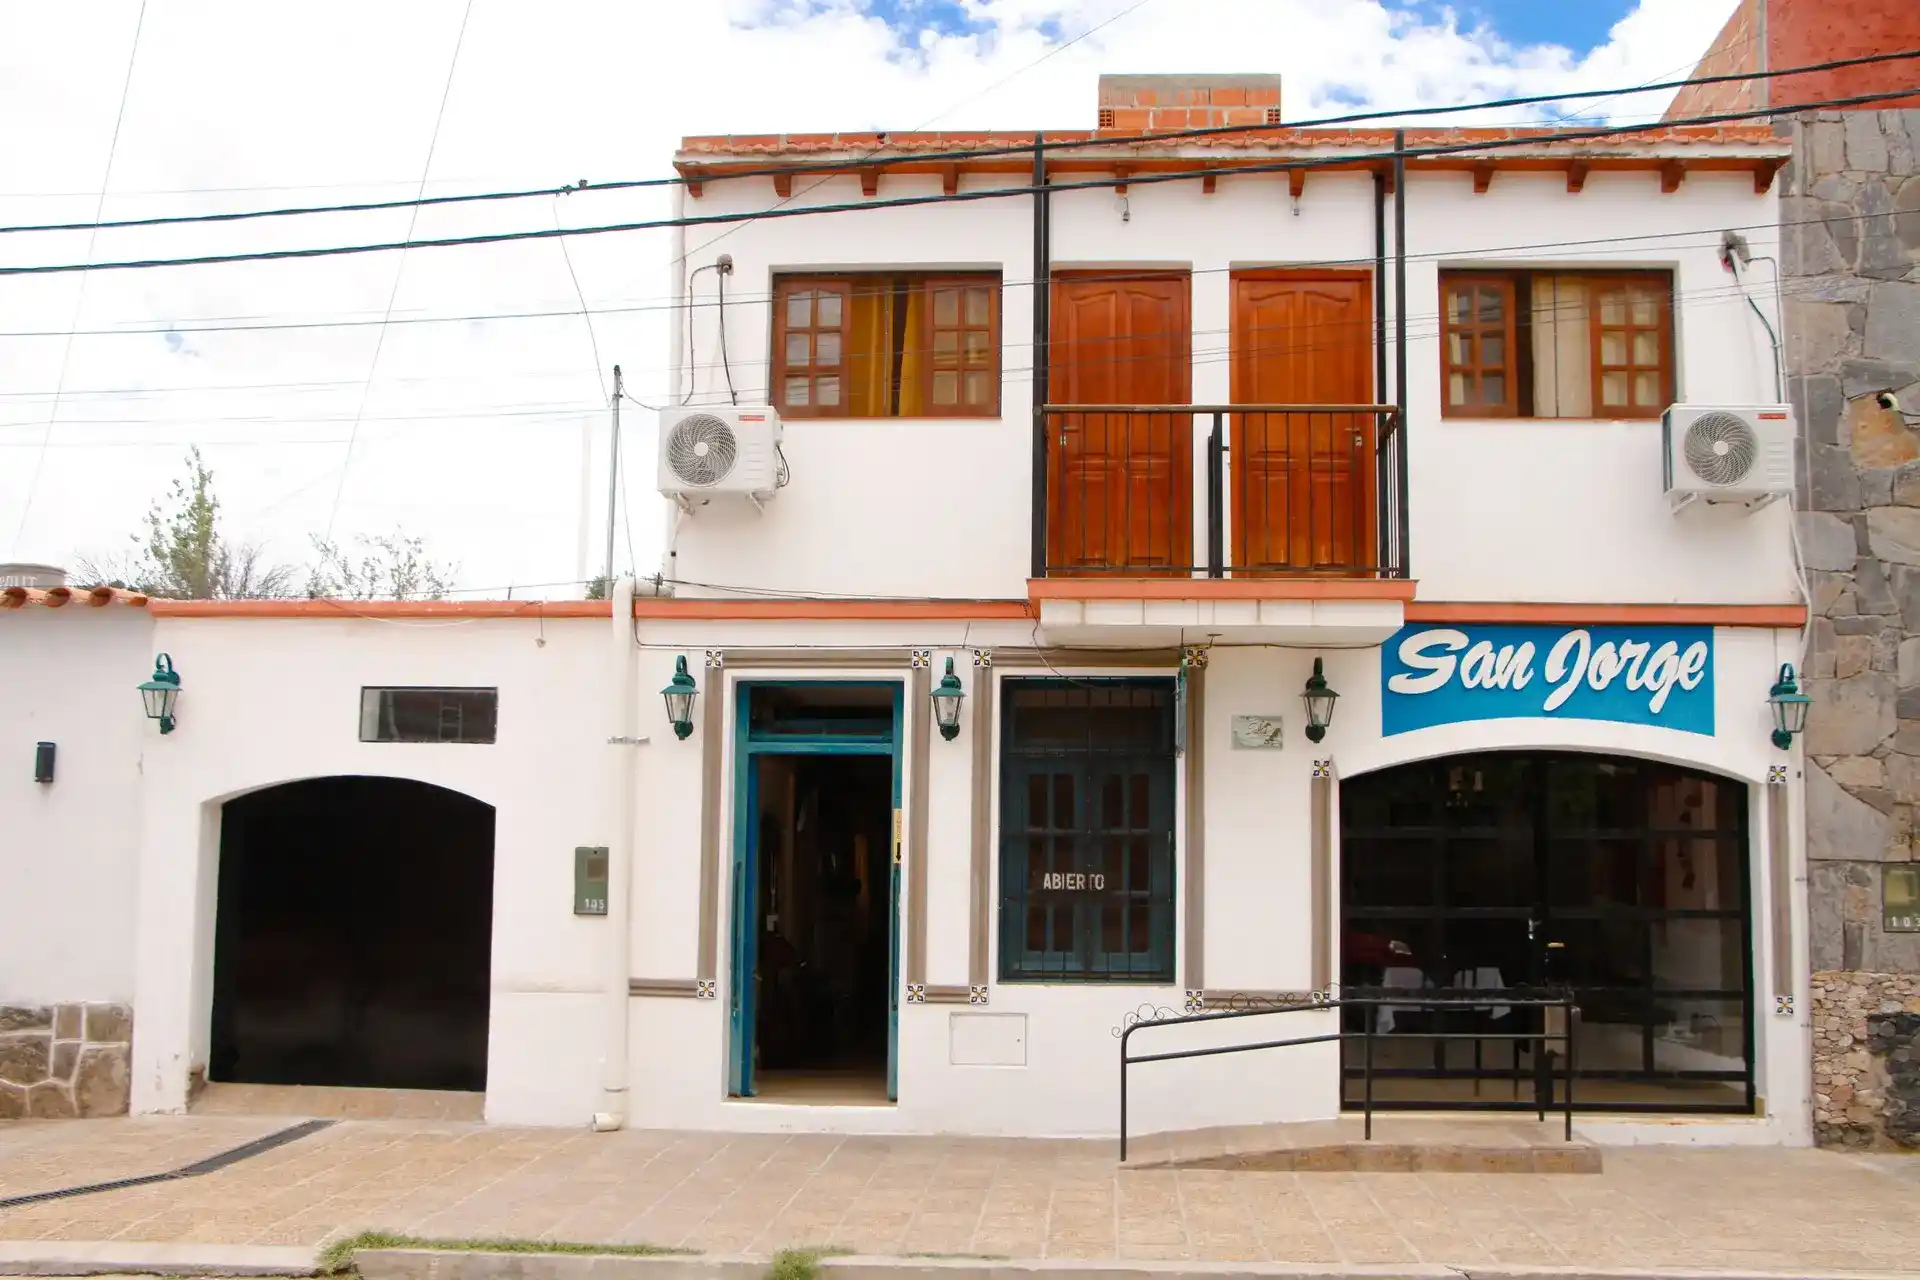
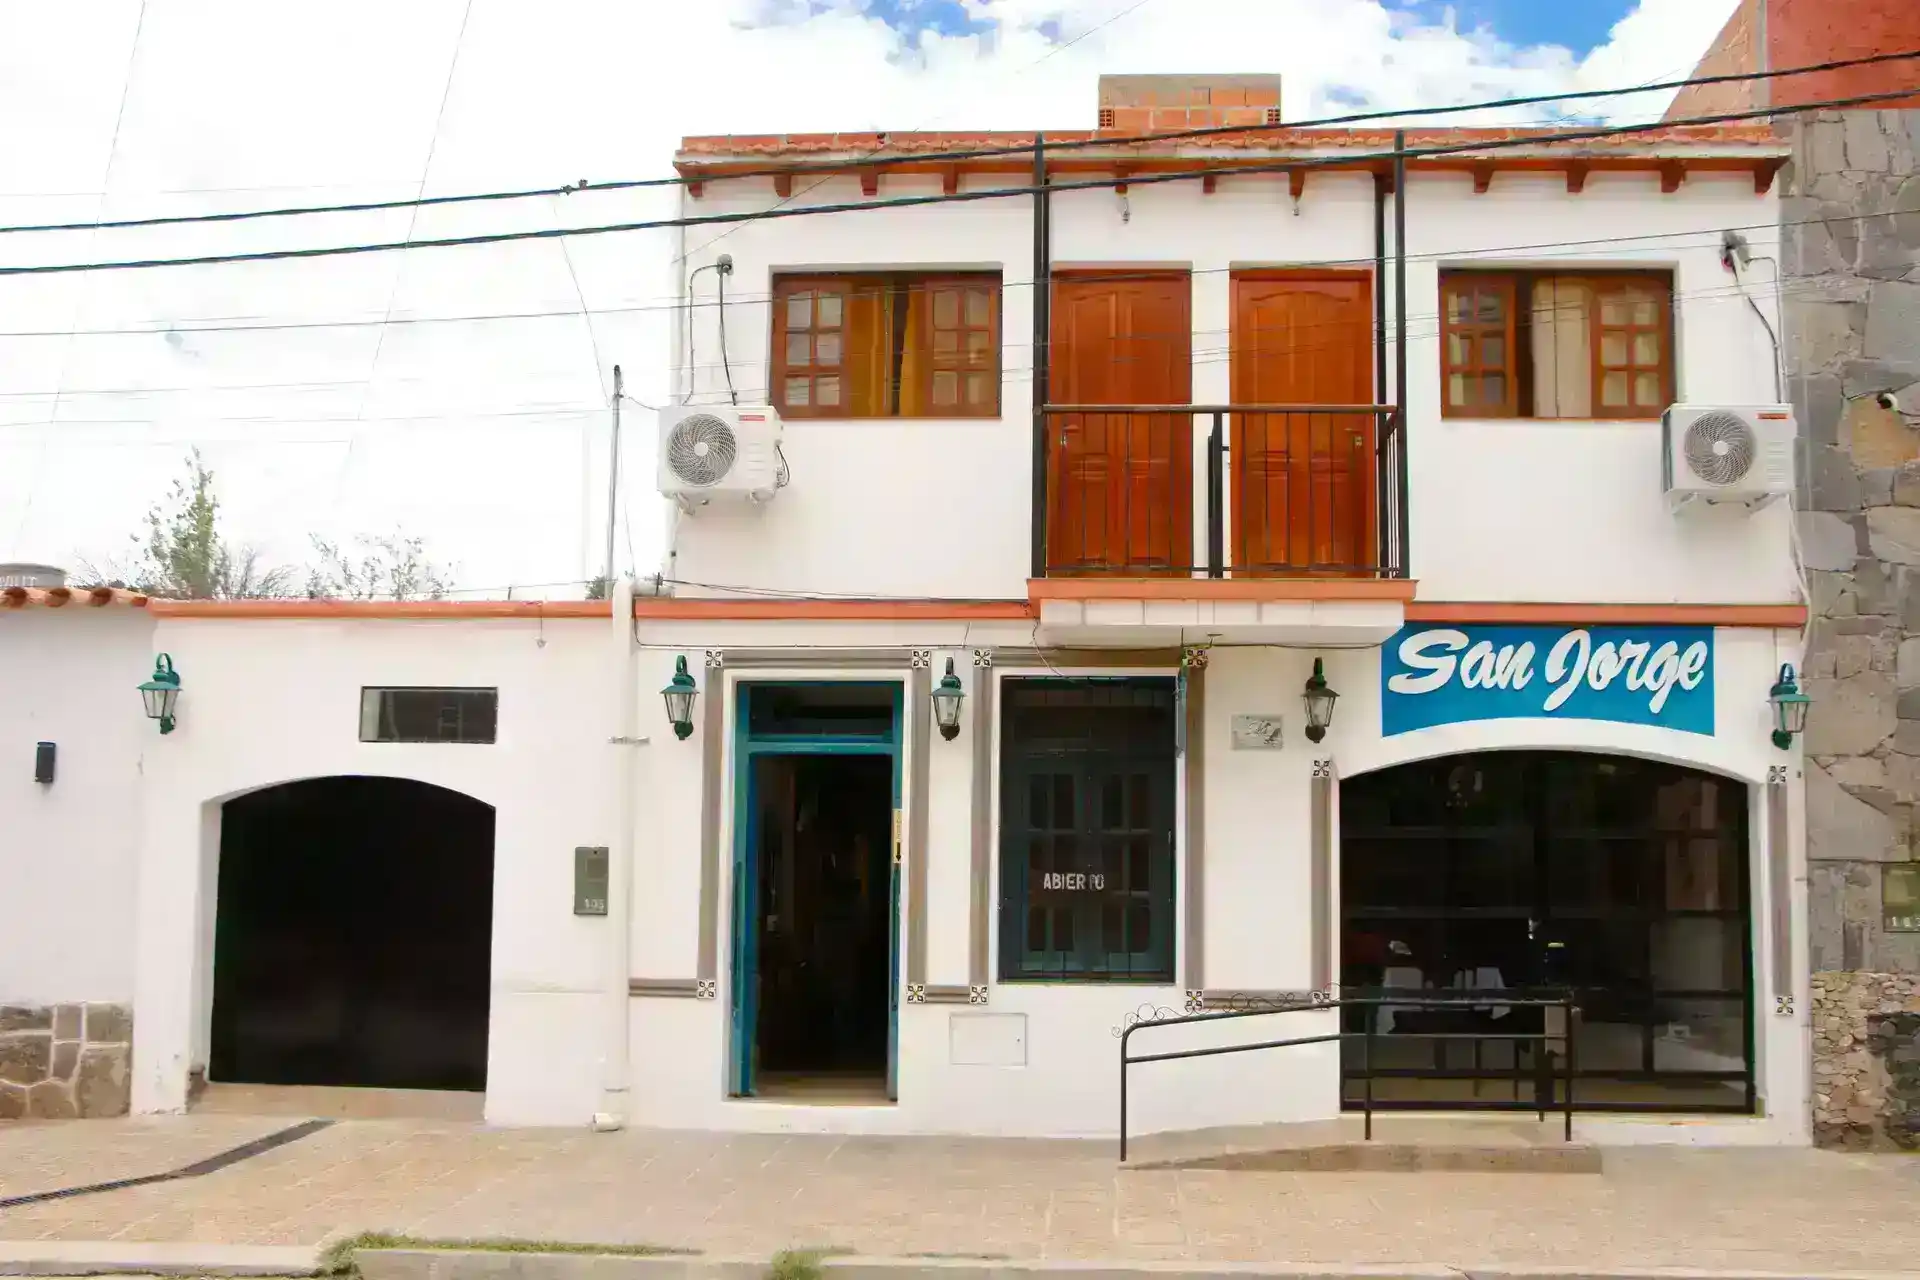
Comprimi primera imagen de carrusel en index.html y le agregue atributo loading con valor lazy

diff --git a/CSS/estilos.min.css b/CSS/estilos.min.css
@@ -1,1 +1,1 @@
-@import url('https://fonts.googleapis.com/css2?family=Nunito:ital,wght@0,200..1000;1,200..1000&display=swap');body{font-family:'Nunito',sans-serif;min-height:100vh;display:flex;flex-direction:column}header{width:100%;z-index:100;position:fixed;top:0;left:0}main{margin-top:96.75px;flex-grow:1;background:#f1e8d6}h1,h2,h3,h4{color:#8a9017;color:#9f870b;color:#734B2E}.lead{font-size:1rem;font-weight:400}.iconFacebook{color:#3d61f2}.iconFacebook:hover{color:rgb(27,27,189)}.iconInstagram{color:rgb(210,48,48)}.iconInstagram:hover{color:red}.iconWhatsApp{color:green}.iconWhatsApp:hover{color:rgb(3,96,3);font-weight:400}.btnWppFixed{position:fixed;right:20px;bottom:20px;font-size:60px}@media all and (min-width:768px){.btnWppFixed{font-size:80px}}@media all and (min-width:992px){main{margin-top:80.75px}}@media all and (min-width:1200px){main{margin-top:104px}.lead{font-size:1.25rem;font-weight:400}}
+@import url('https://cdn.jsdelivr.net/npm/bootstrap@5.3.2/dist/css/bootstrap.min.css');@import url('https://cdnjs.cloudflare.com/ajax/libs/font-awesome/6.5.1/css/all.min.css');@import url('https://fonts.googleapis.com/css2?family=Nunito:ital,wght@0,200..1000;1,200..1000&display=swap');body{font-family:'Nunito',sans-serif;min-height:100vh;display:flex;flex-direction:column}header{width:100%;z-index:100;position:fixed;top:0;left:0}main{margin-top:96.75px;flex-grow:1;background:#f1e8d6}h1,h2,h3,h4{color:#8a9017;color:#9f870b;color:#734B2E}.lead{font-size:1rem;font-weight:400}.iconFacebook{color:#3d61f2}.iconFacebook:hover{color:rgb(27,27,189)}.iconInstagram{color:rgb(210,48,48)}.iconInstagram:hover{color:red}.iconWhatsApp{color:green}.iconWhatsApp:hover{color:rgb(3,96,3);font-weight:400}.btnWppFixed{position:fixed;right:20px;bottom:20px;font-size:60px}@media all and (min-width:768px){.btnWppFixed{font-size:80px}}@media all and (min-width:992px){main{margin-top:80.75px}}@media all and (min-width:1200px){main{margin-top:104px}.lead{font-size:1.25rem;font-weight:400}}

diff --git a/index.html b/index.html
@@ -32,20 +32,7 @@
       property="og:url"
       content="https://hostalsanjorgecafayate.netlify.app/"
     />
-    <title>Home | Hostal San Jorge - Alojamiento en Cafayate, Salta</title>
-    <link
-      rel="stylesheet"
-      href="https://cdnjs.cloudflare.com/ajax/libs/font-awesome/6.4.2/css/all.min.css"
-      integrity="sha512-z3gLpd7yknf1YoNbCzqRKc4qyor8gaKU1qmn+CShxbuBusANI9QpRohGBreCFkKxLhei6S9CQXFEbbKuqLg0DA=="
-      crossorigin="anonymous"
-      referrerpolicy="no-referrer"
-    />   
-    <link
-      href="https://cdn.jsdelivr.net/npm/bootstrap@5.3.2/dist/css/bootstrap.min.css"
-      rel="stylesheet"
-      integrity="sha384-T3c6CoIi6uLrA9TneNEoa7RxnatzjcDSCmG1MXxSR1GAsXEV/Dwwykc2MPK8M2HN"
-      crossorigin="anonymous"
-    />
+    <title>Home | Hostal San Jorge - Alojamiento en Cafayate, Salta</title> 
     <link rel="stylesheet" href="./CSS/navbar.min.css" />
     <link rel="stylesheet" href="./CSS/footer.min.css" />
     <link rel="stylesheet" href="./CSS/estilos.min.css" />
@@ -196,6 +183,7 @@
               class="w-100 imgCarrusel"
               alt="Vista de frente del hostal"
               title="Frente del Hostal"
+              loading="lazy"
             />
           </div>
           <div class="carousel-item" data-bs-interval="3000">

diff --git a/PAGES/habitacionQuintuple.html b/PAGES/habitacionQuintuple.html
@@ -36,19 +36,6 @@
       content="https://hostalsanjorgecafayate.netlify.app/PAGES/habitacionQuintuple"
     />
     <title>Habitación Quíntuple | Hostal San Jorge - Alojamiento</title>
-    <link
-      rel="stylesheet"
-      href="https://cdnjs.cloudflare.com/ajax/libs/font-awesome/6.4.2/css/all.min.css"
-      integrity="sha512-z3gLpd7yknf1YoNbCzqRKc4qyor8gaKU1qmn+CShxbuBusANI9QpRohGBreCFkKxLhei6S9CQXFEbbKuqLg0DA=="
-      crossorigin="anonymous"
-      referrerpolicy="no-referrer"
-    />
-    <link
-      href="https://cdn.jsdelivr.net/npm/bootstrap@5.3.2/dist/css/bootstrap.min.css"
-      rel="stylesheet"
-      integrity="sha384-T3c6CoIi6uLrA9TneNEoa7RxnatzjcDSCmG1MXxSR1GAsXEV/Dwwykc2MPK8M2HN"
-      crossorigin="anonymous"
-    />
     <link rel="stylesheet" href="../CSS/navbar.min.css" />
     <link rel="stylesheet" href="../CSS/footer.min.css" />
     <link rel="stylesheet" href="../CSS/detalleHabitacion.min.css" />

diff --git a/PAGES/habitacionSimple.html b/PAGES/habitacionSimple.html
@@ -36,19 +36,6 @@
       content="https://hostalsanjorgecafayate.netlify.app/PAGES/habitacionSimple"
     />
     <title>Habitación Indivual | Hostal San Jorge - Alojamiento</title>
-    <link
-      rel="stylesheet"
-      href="https://cdnjs.cloudflare.com/ajax/libs/font-awesome/6.4.2/css/all.min.css"
-      integrity="sha512-z3gLpd7yknf1YoNbCzqRKc4qyor8gaKU1qmn+CShxbuBusANI9QpRohGBreCFkKxLhei6S9CQXFEbbKuqLg0DA=="
-      crossorigin="anonymous"
-      referrerpolicy="no-referrer"
-    />
-    <link
-      href="https://cdn.jsdelivr.net/npm/bootstrap@5.3.2/dist/css/bootstrap.min.css"
-      rel="stylesheet"
-      integrity="sha384-T3c6CoIi6uLrA9TneNEoa7RxnatzjcDSCmG1MXxSR1GAsXEV/Dwwykc2MPK8M2HN"
-      crossorigin="anonymous"
-    />
     <link rel="stylesheet" href="../CSS/navbar.min.css" />
     <link rel="stylesheet" href="../CSS/footer.min.css" />
     <link rel="stylesheet" href="../CSS/detalleHabitacion.min.css" />

diff --git a/PAGES/habitacionTriple.html b/PAGES/habitacionTriple.html
@@ -36,19 +36,6 @@
       content="https://hostalsanjorgecafayate.netlify.app/PAGES/habitacionTriple"
     />
     <title>Habitación Triple | Hostal San Jorge - Alojamiento</title>
-    <link
-      rel="stylesheet"
-      href="https://cdnjs.cloudflare.com/ajax/libs/font-awesome/6.4.2/css/all.min.css"
-      integrity="sha512-z3gLpd7yknf1YoNbCzqRKc4qyor8gaKU1qmn+CShxbuBusANI9QpRohGBreCFkKxLhei6S9CQXFEbbKuqLg0DA=="
-      crossorigin="anonymous"
-      referrerpolicy="no-referrer"
-    />
-    <link
-      href="https://cdn.jsdelivr.net/npm/bootstrap@5.3.2/dist/css/bootstrap.min.css"
-      rel="stylesheet"
-      integrity="sha384-T3c6CoIi6uLrA9TneNEoa7RxnatzjcDSCmG1MXxSR1GAsXEV/Dwwykc2MPK8M2HN"
-      crossorigin="anonymous"
-    />
     <link rel="stylesheet" href="../CSS/navbar.min.css" />
     <link rel="stylesheet" href="../CSS/footer.min.css" />
     <link rel="stylesheet" href="../CSS/detalleHabitacion.min.css" />

diff --git a/PAGES/habitacionDoble.html b/PAGES/habitacionDoble.html
@@ -36,19 +36,6 @@
       content="https://hostalsanjorgecafayate.netlify.app/PAGES/HabitacionDoble"
     />
     <title>Habitación Doble | Hostal San Jorge - Alojamiento</title>
-    <link
-      rel="stylesheet"
-      href="https://cdnjs.cloudflare.com/ajax/libs/font-awesome/6.4.2/css/all.min.css"
-      integrity="sha512-z3gLpd7yknf1YoNbCzqRKc4qyor8gaKU1qmn+CShxbuBusANI9QpRohGBreCFkKxLhei6S9CQXFEbbKuqLg0DA=="
-      crossorigin="anonymous"
-      referrerpolicy="no-referrer"
-    />
-    <link
-      href="https://cdn.jsdelivr.net/npm/bootstrap@5.3.2/dist/css/bootstrap.min.css"
-      rel="stylesheet"
-      integrity="sha384-T3c6CoIi6uLrA9TneNEoa7RxnatzjcDSCmG1MXxSR1GAsXEV/Dwwykc2MPK8M2HN"
-      crossorigin="anonymous"
-    />
     <link rel="stylesheet" href="../CSS/navbar.min.css" />
     <link rel="stylesheet" href="../CSS/footer.min.css" />
     <link rel="stylesheet" href="../CSS/detalleHabitacion.min.css" />

diff --git a/PAGES/preguntasFrecuentes.html b/PAGES/preguntasFrecuentes.html
@@ -36,19 +36,6 @@
       content="https://hostalsanjorgecafayate.netlify.app/PAGES/preguntasFrecuentes"
     />
     <title>Preguntas Frecuentes | Hostal San Jorge - Alojamiento</title>
-    <link
-      rel="stylesheet"
-      href="https://cdnjs.cloudflare.com/ajax/libs/font-awesome/6.4.2/css/all.min.css"
-      integrity="sha512-z3gLpd7yknf1YoNbCzqRKc4qyor8gaKU1qmn+CShxbuBusANI9QpRohGBreCFkKxLhei6S9CQXFEbbKuqLg0DA=="
-      crossorigin="anonymous"
-      referrerpolicy="no-referrer"
-    />
-    <link
-      href="https://cdn.jsdelivr.net/npm/bootstrap@5.3.2/dist/css/bootstrap.min.css"
-      rel="stylesheet"
-      integrity="sha384-T3c6CoIi6uLrA9TneNEoa7RxnatzjcDSCmG1MXxSR1GAsXEV/Dwwykc2MPK8M2HN"
-      crossorigin="anonymous"
-    />
     <link rel="stylesheet" href="../CSS/navbar.min.css" />
     <link rel="stylesheet" href="../CSS/footer.min.css" />
     <link rel="stylesheet" href="../CSS/estilos.min.css" />

diff --git a/PAGES/galeria.html b/PAGES/galeria.html
@@ -36,19 +36,6 @@
       content="https://hostalsanjorgecafayate.netlify.app/PAGES/galeria"
     />
     <title>Galería | Hostal San Jorge - Alojamiento en Cafayate, Salta</title>
-    <link
-      rel="stylesheet"
-      href="https://cdnjs.cloudflare.com/ajax/libs/font-awesome/6.4.2/css/all.min.css"
-      integrity="sha512-z3gLpd7yknf1YoNbCzqRKc4qyor8gaKU1qmn+CShxbuBusANI9QpRohGBreCFkKxLhei6S9CQXFEbbKuqLg0DA=="
-      crossorigin="anonymous"
-      referrerpolicy="no-referrer"
-    />
-    <link
-      href="https://cdn.jsdelivr.net/npm/bootstrap@5.3.2/dist/css/bootstrap.min.css"
-      rel="stylesheet"
-      integrity="sha384-T3c6CoIi6uLrA9TneNEoa7RxnatzjcDSCmG1MXxSR1GAsXEV/Dwwykc2MPK8M2HN"
-      crossorigin="anonymous"
-    />
     <link rel="stylesheet" href="../CSS/navbar.min.css" />
     <link rel="stylesheet" href="../CSS/footer.min.css" />
     <link rel="stylesheet" href="../CSS/estilos.min.css" />

diff --git a/PAGES/comoLlegar.html b/PAGES/comoLlegar.html
@@ -38,19 +38,6 @@
     <title>
       Cómo llegar | Hostal San Jorge - Alojamiento en Cafayate, Salta
     </title>
-    <link
-      rel="stylesheet"
-      href="https://cdnjs.cloudflare.com/ajax/libs/font-awesome/6.4.2/css/all.min.css"
-      integrity="sha512-z3gLpd7yknf1YoNbCzqRKc4qyor8gaKU1qmn+CShxbuBusANI9QpRohGBreCFkKxLhei6S9CQXFEbbKuqLg0DA=="
-      crossorigin="anonymous"
-      referrerpolicy="no-referrer"
-    />
-    <link
-      href="https://cdn.jsdelivr.net/npm/bootstrap@5.3.2/dist/css/bootstrap.min.css"
-      rel="stylesheet"
-      integrity="sha384-T3c6CoIi6uLrA9TneNEoa7RxnatzjcDSCmG1MXxSR1GAsXEV/Dwwykc2MPK8M2HN"
-      crossorigin="anonymous"
-    />
     <link rel="stylesheet" href="../CSS/estilos.min.css" />
     <link rel="stylesheet" href="../CSS/navbar.min.css" />
     <link rel="stylesheet" href="../CSS/footer.min.css" />

diff --git a/PAGES/habitaciones.html b/PAGES/habitaciones.html
@@ -38,19 +38,6 @@
     <title>
       Habitaciones | Hostal San Jorge - Alojamiento en Cafayate, Salta
     </title>
-    <link
-      rel="stylesheet"
-      href="https://cdnjs.cloudflare.com/ajax/libs/font-awesome/6.4.2/css/all.min.css"
-      integrity="sha512-z3gLpd7yknf1YoNbCzqRKc4qyor8gaKU1qmn+CShxbuBusANI9QpRohGBreCFkKxLhei6S9CQXFEbbKuqLg0DA=="
-      crossorigin="anonymous"
-      referrerpolicy="no-referrer"
-    />
-    <link
-      href="https://cdn.jsdelivr.net/npm/bootstrap@5.3.2/dist/css/bootstrap.min.css"
-      rel="stylesheet"
-      integrity="sha384-T3c6CoIi6uLrA9TneNEoa7RxnatzjcDSCmG1MXxSR1GAsXEV/Dwwykc2MPK8M2HN"
-      crossorigin="anonymous"
-    />
     <link rel="stylesheet" href="../CSS/navbar.min.css" />
     <link rel="stylesheet" href="../CSS/footer.min.css" />
     <link rel="stylesheet" href="../CSS/estilos.min.css" />
